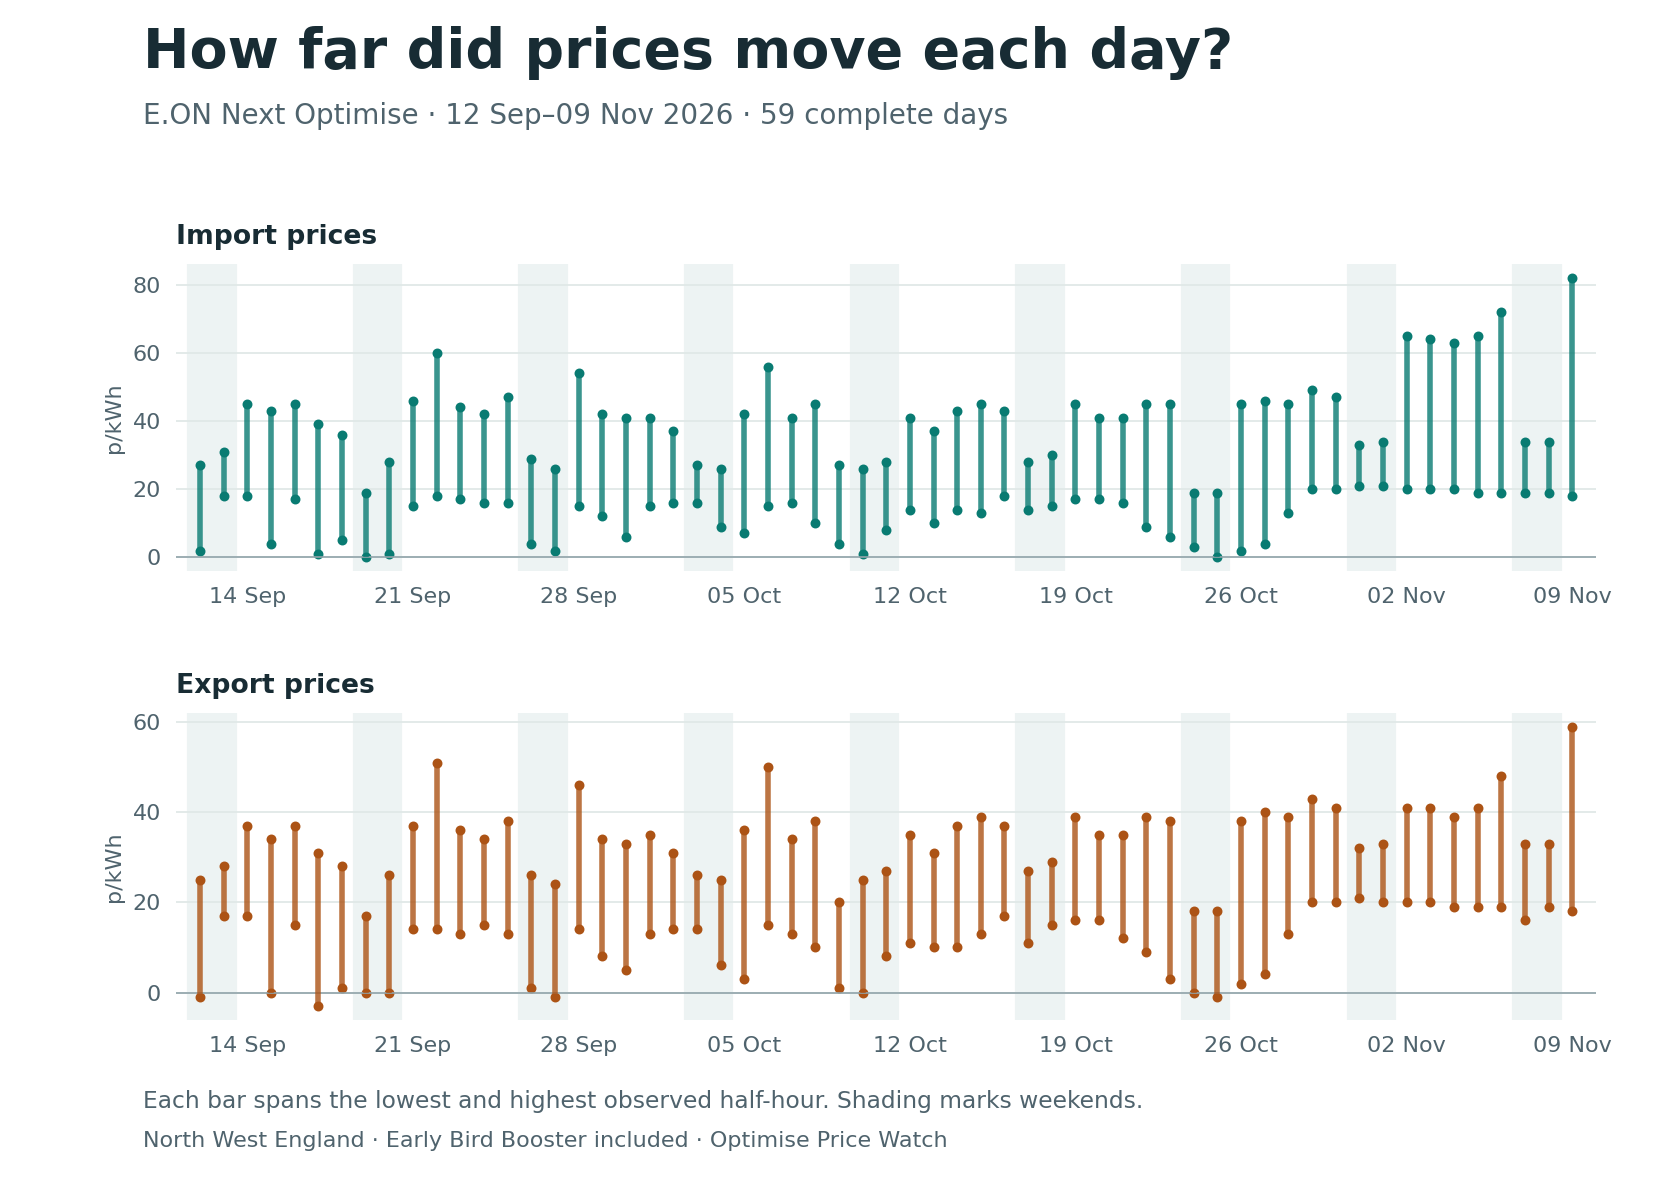
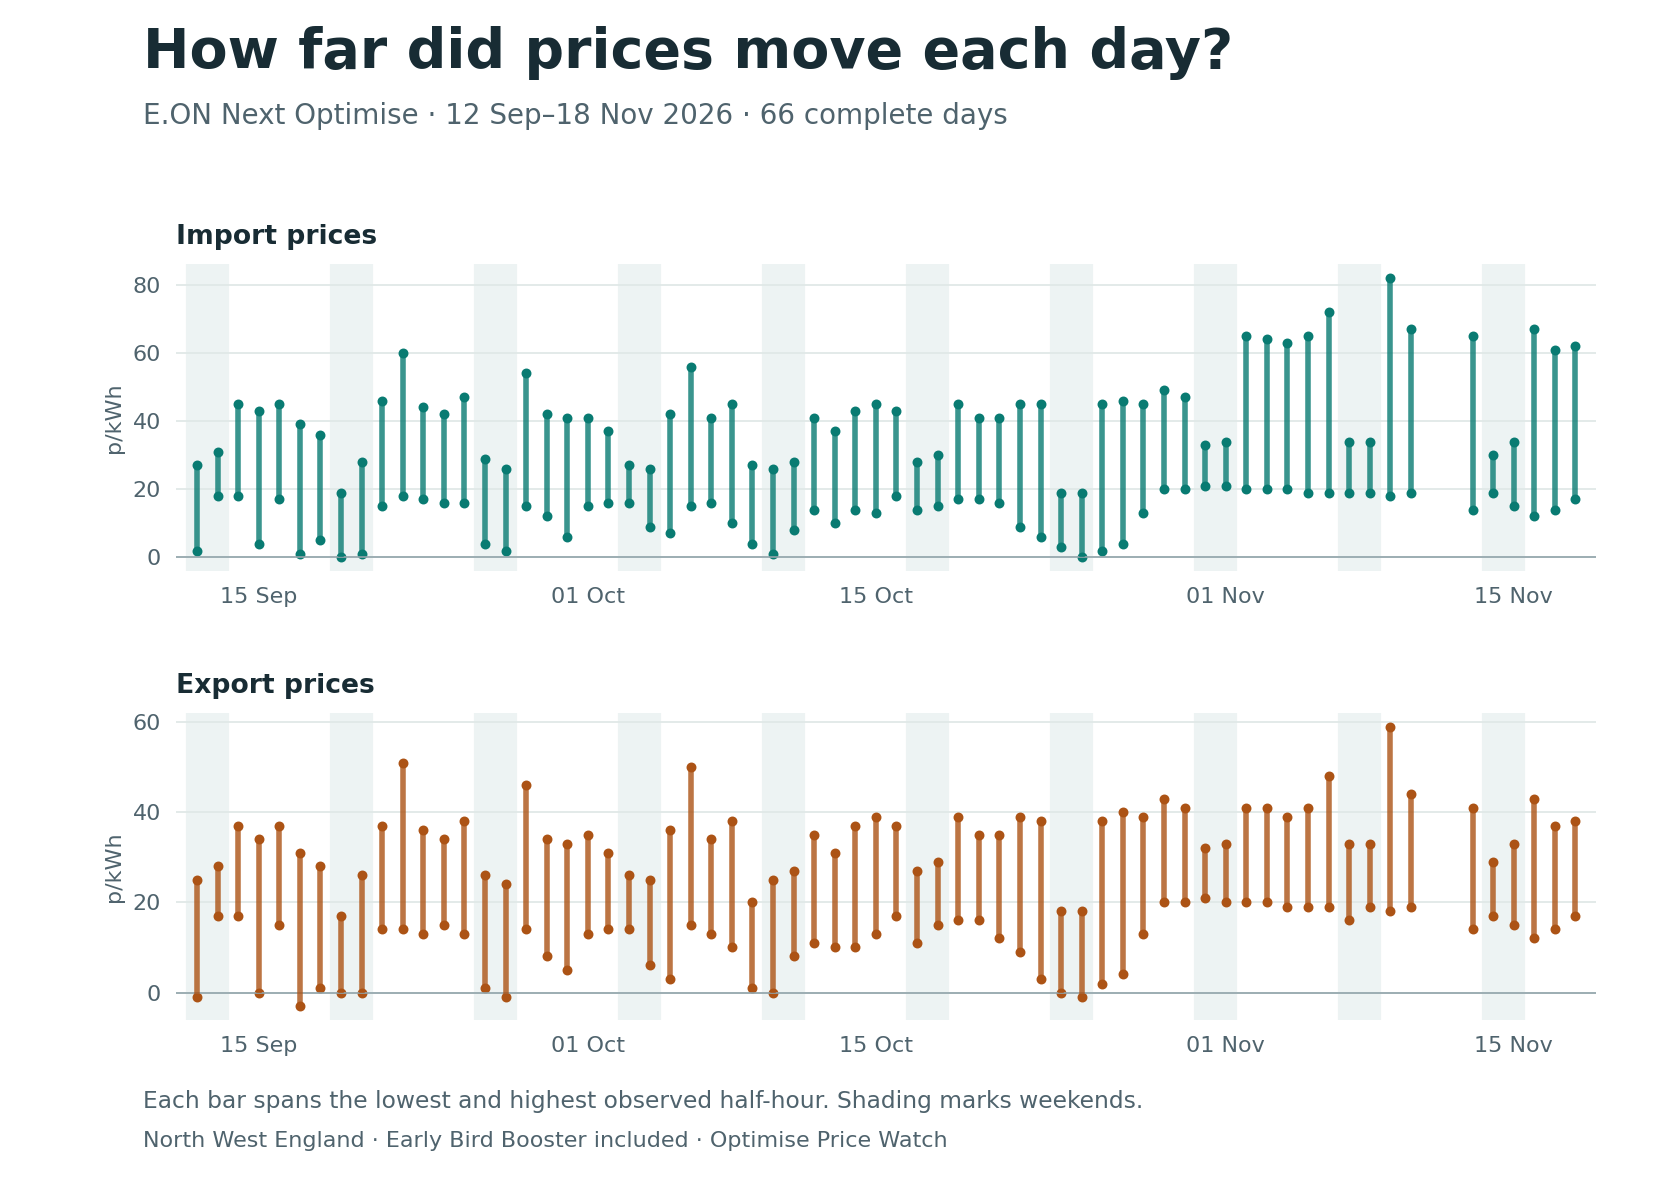
Refresh Optimise archive charts and show import price trends

diff --git a/docs/index.html b/docs/index.html
@@ -5,7 +5,7 @@
   <meta name="viewport" content="width=device-width,initial-scale=1">
   <meta name="description" content="Historical archive of E.ON Next Optimise import and export prices observed in North West England.">
   <title>Optimise Price Watch</title>
-  <link rel="stylesheet" href="styles.css?v=archive">
+  <link rel="stylesheet" href="styles.css?v=trends">
 </head>
 <body>
   <header class="hero">
@@ -54,11 +54,15 @@
     </section>
 
     <section class="shell" id="summary">
-      <div class="section-head"><div><p class="eyebrow">12 September to 9 November 2026</p><h2>What the archive shows</h2></div></div>
-      <p>Across 59 complete days, 18:30–19:00 was the most expensive half-hour for import on average, at 46.9p/kWh on weekdays and 27.1p/kWh on weekends. The cheapest average slot was 03:00–03:30 for both, at 15.2p and 12.6p respectively. The highest observed import slot was 82p/kWh.</p>
+      <div class="section-head"><div><h2>What the archive shows</h2></div></div>
+      <p>The charts cover 66 complete days from 12 September to 18 November 2026. On average, import was most expensive at 18:30–19:00 (48.7p/kWh on weekdays and 27.3p/kWh on weekends) and cheapest at 03:00–03:30 (15.2p/kWh and 13.1p/kWh). The highest individual import price was 82p/kWh.</p>
       <div class="archive-charts">
+        <figure class="chart-card archive-trends">
+          <img src="charts/optimise-import-price-trends.png" width="1680" height="880" loading="lazy" alt="Daily import highs, lows, off-peak averages and seven-day rolling average from 12 September to 18 November 2026.">
+          <figcaption>Off-peak is 00:00–06:00 UK time. The rolling average uses seven consecutive complete days. <a href="charts/optimise-import-price-trends.png" download>Download the import price trends chart (PNG)</a></figcaption>
+        </figure>
         <figure class="chart-card">
-          <img src="charts/optimise-daily-price-range.png" width="1680" height="1200" loading="lazy" alt="Daily import and export lows and highs for 59 complete days. Import reached 82p per kWh. Export fell below zero on four days.">
+          <img src="charts/optimise-daily-price-range.png" width="1680" height="1200" loading="lazy" alt="Daily import and export lows and highs for 66 complete days. Import reached 82p per kWh. Export fell below zero on four days.">
           <figcaption><a href="charts/optimise-daily-price-range.png" download>Download the daily price range chart (PNG)</a></figcaption>
         </figure>
         <figure class="chart-card">

diff --git a/docs/styles.css b/docs/styles.css
@@ -6,5 +6,6 @@
 .archive-notice{max-width:580px;margin:0 0 20px;padding:14px 16px;border-left:3px solid var(--lime);background:#233c33;border-radius:0 10px 10px 0}
 .archive-notice strong{color:var(--lime)}.archive-notice p{margin:4px 0 0;color:#dce9e1}
 .archive-charts{display:grid;grid-template-columns:repeat(2,minmax(0,1fr));gap:16px;margin:22px 0}
+.archive-trends{grid-column:1/-1}
 .archive-charts figure{margin:0}.archive-charts img{display:block;width:100%;height:auto}.archive-charts figcaption{margin-top:8px}.archive-charts a{color:var(--green)}
 @media(max-width:760px){.archive-charts{grid-template-columns:1fr}}

diff --git a/scripts/make_archive_charts.py b/scripts/make_archive_charts.py
@@ -73,6 +73,56 @@ def figure(title, subtitle, note):
     return fig, axes
 
 
+def price_trends(complete, path, period):
+    first, last = min(complete), max(complete)
+    dates = [first + timedelta(days=offset) for offset in range((last - first).days + 1)]
+    daily = {}
+    for day, channels in complete.items():
+        rows = channels["import"]
+        prices = [row["latest"] for row in rows]
+        overnight = [row["latest"] for row in rows
+                     if datetime.fromtimestamp(row["start"], LONDON).hour < 6]
+        daily[day] = (mean(prices), max(prices), min(prices), mean(overnight))
+
+    missing = float("nan")
+    rolling = []
+    for index in range(len(dates)):
+        window = dates[max(0, index - 6):index + 1]
+        rolling.append(mean(daily[day][0] for day in window)
+                       if len(window) == 7 and all(day in daily for day in window)
+                       else missing)
+
+    fig, ax = plt.subplots(figsize=(10.5, 5.5), dpi=160)
+    fig.subplots_adjust(left=.10, right=.96, top=.73, bottom=.20)
+    fig.text(.085, .92, "How did import prices change?", fontsize=25, weight="bold", color=INK)
+    fig.text(.085, .86, f"E.ON Next Optimise · {period}", fontsize=12.5, color=MUTED)
+    for column, label, color, style in (
+        (1, "Daily high", ORANGE, "-"),
+        (2, "Daily low", "#694A94", ":"),
+        (3, "Off-peak average", TEAL, "--"),
+    ):
+        values = [daily[day][column] if day in daily else missing for day in dates]
+        ax.plot(dates, values, label=label, color=color, linestyle=style, lw=1.8)
+    ax.plot(dates, rolling, label="7-day rolling average", color=INK, lw=2.6)
+    fig.legend(loc="upper left", bbox_to_anchor=(.079, .834), ncol=4, frameon=False, fontsize=10)
+    ax.set_ylabel("p/kWh", color=MUTED)
+    ax.tick_params(length=0, pad=7, labelcolor=MUTED)
+    ax.spines[:].set_visible(False)
+    ax.set_axisbelow(True)
+    ax.grid(axis="y", color="#e0e8e7")
+    ax.axhline(0, color="#91a4aa", lw=.75)
+    ax.set_xlim(first - timedelta(days=1), last + timedelta(days=1))
+    locator = mdates.AutoDateLocator(minticks=4, maxticks=9)
+    ax.xaxis.set_major_locator(locator)
+    ax.xaxis.set_major_formatter(mdates.DateFormatter("%d %b"))
+    fig.text(.085, .075, "Off-peak is 00:00–06:00 UK time. Rolling averages use seven consecutive complete days.",
+             fontsize=10, color=MUTED)
+    fig.text(.085, .035, "North West England · Early Bird Booster included · Optimise Price Watch",
+             fontsize=10, color=MUTED)
+    fig.savefig(path / "optimise-import-price-trends.png")
+    plt.close(fig)
+
+
 def main():
     data = json.loads((DOCS / "data" / "north-west.json").read_text(encoding="utf-8"))
     complete = complete_days(data)
@@ -80,6 +130,7 @@ def main():
     period = f"{dates[0]:%d %b}–{dates[-1]:%d %b %Y} · {len(dates)} complete days"
     path = DOCS / "charts"
     path.mkdir(exist_ok=True)
+    price_trends(complete, path, period)
 
     fig, axes = figure("How far did prices move each day?",
                        f"E.ON Next Optimise · {period}",
@@ -95,7 +146,7 @@ def main():
         ax.scatter(dates, lows, s=12, color=color)
         ax.scatter(dates, highs, s=12, color=color)
         ax.set_xlim(mdates.date2num(dates[0]) - 1, mdates.date2num(dates[-1]) + 1)
-        ax.xaxis.set_major_locator(mdates.WeekdayLocator(byweekday=mdates.MO))
+        ax.xaxis.set_major_locator(mdates.AutoDateLocator(minticks=4, maxticks=9))
         ax.xaxis.set_major_formatter(mdates.DateFormatter("%d %b"))
         print(channel, "historical min/max:", min(lows), max(highs),
               "days with a negative slot:", sum(value < 0 for value in lows))
